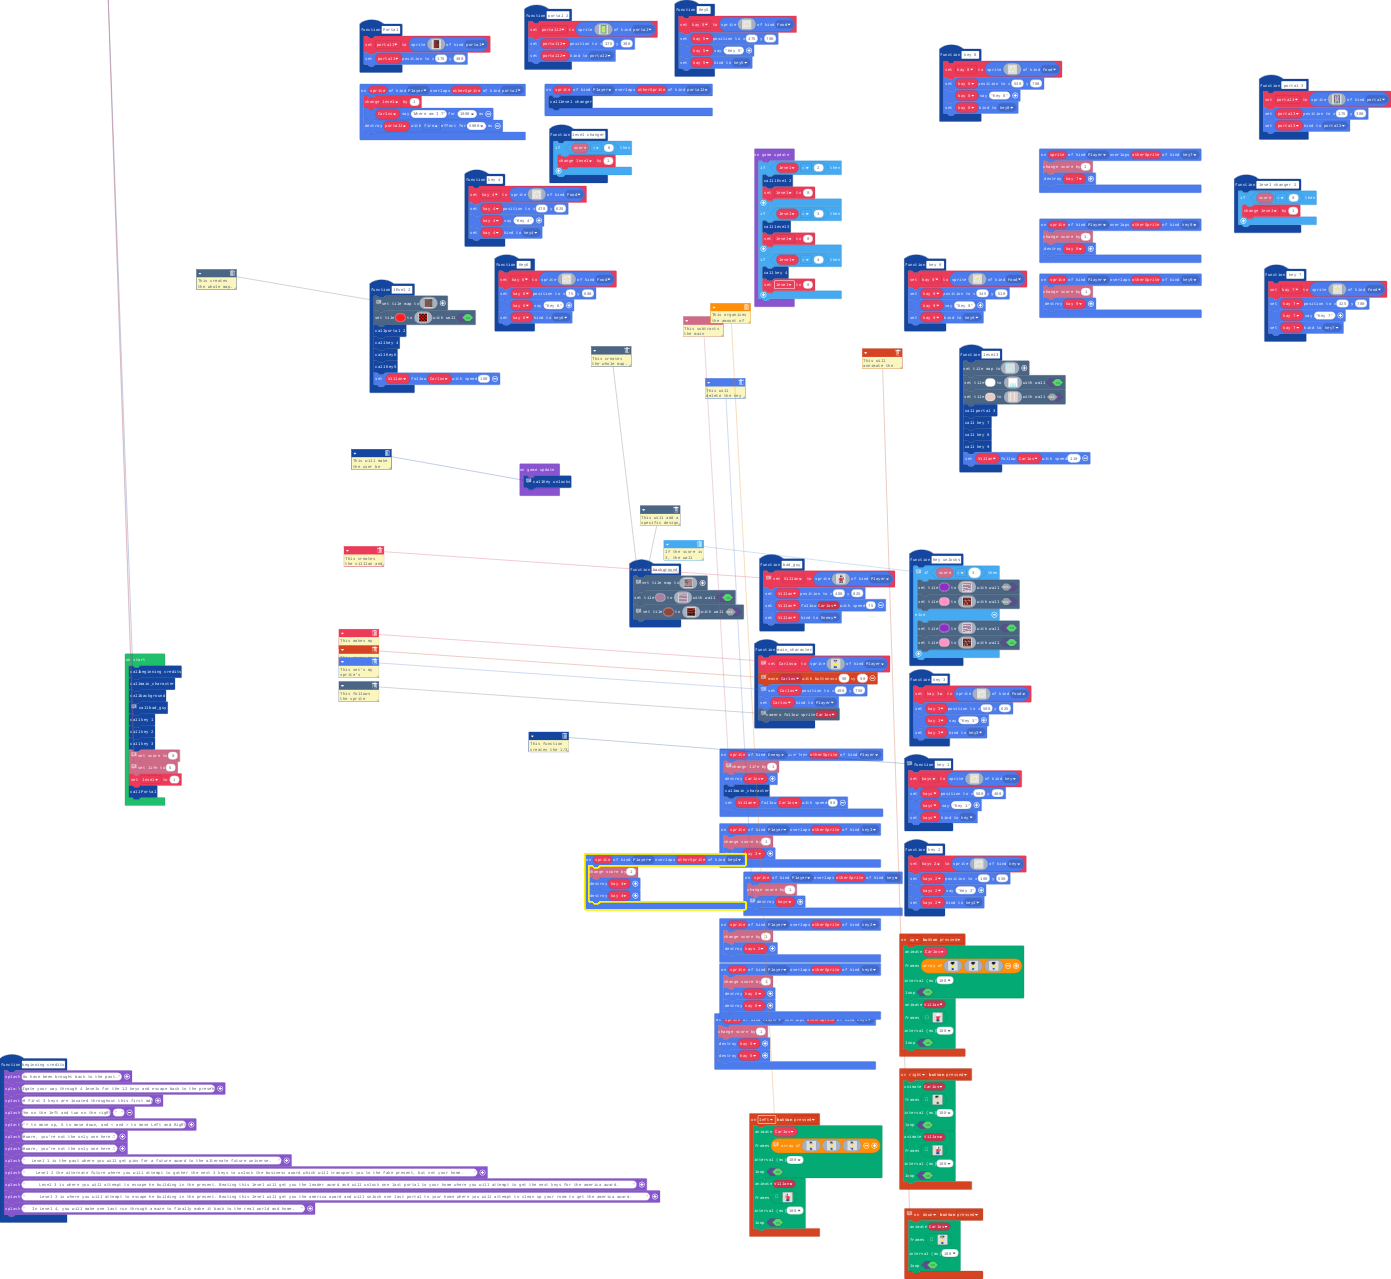
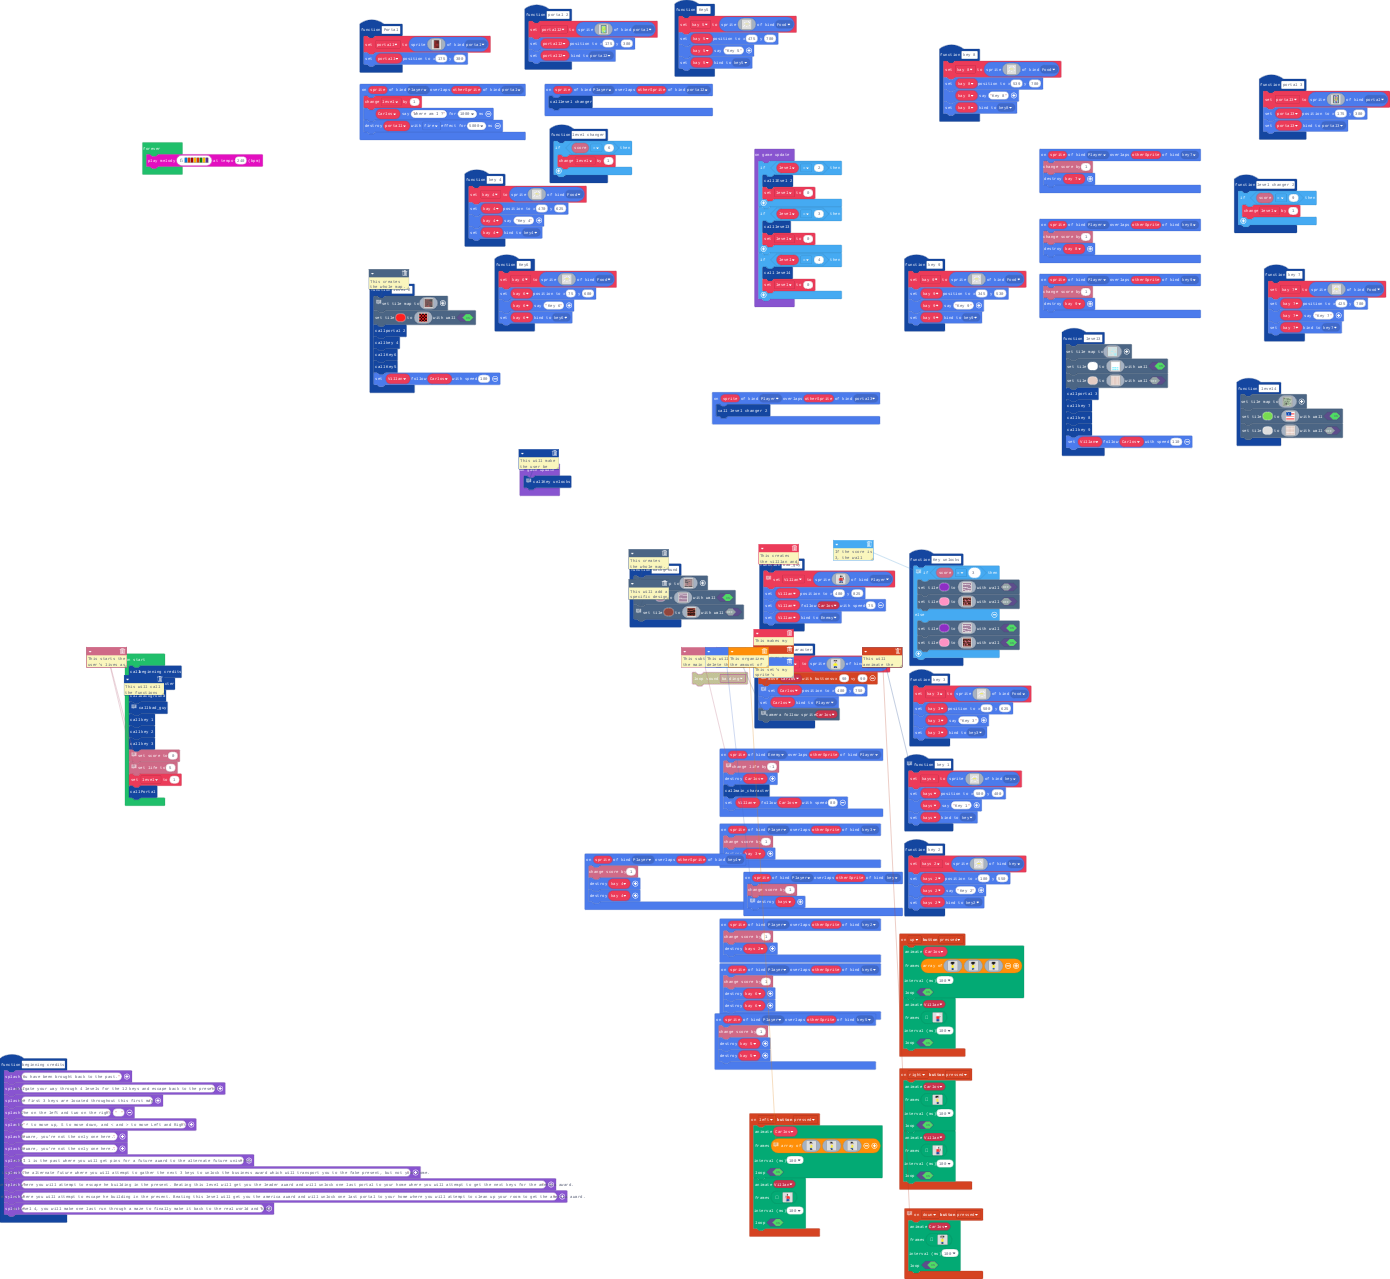
https://makecode.com/_JUPXMbA47VUR

diff --git a/main.ts b/main.ts
@@ -53,26 +53,8 @@ e e e e e e e e e e e e e e e e
 e e e e e e e e e e e e e f e e 
 `
 }
-function beginning_credits () {
-    game.splash("You have been brought back to the past.  ")
-    game.splash("Navigate your way through 4 levels for the 12 keys and escape back to the present! ")
-    game.splash("The first 3 keys are located throughout this first map.")
-    game.splash("One on the left and two on the right", "")
-    game.splash("Use ^ to move up, S to move down, and < and > to move Left and Right. ")
-    game.splash("Beware, you're not the only one here...")
-    game.splash("Beware, you're not the only one here...")
-    game.splash("Level 1 is the past where you will get pins for a future award to the alternate future universe.")
-    game.splash("Level 2 the alternate future where you will attempt to gather the next 3 keys to unlock the business award which will transport you to the fake present, but not your home.")
-    game.splash("Level 3 is where you will attempt to escape he building in the present. Beating this level will get you the leader award and will unlock one last portal to your home where you will attempt to get the next keys for the america award.")
-    game.splash("Level 3 is where you will attempt to escape he building in the present. Beating this level will get you the america award and will unlock one last portal to your home where you will attempt to clean up your room to get the america award.")
-    game.splash("In Level 4, you will make one last run through a maze to finally make it back to the real world and home.")
-}
-sprites.onOverlap(SpriteKind.Player, SpriteKind.key8, function (sprite, otherSprite) {
-    info.changeScoreBy(1)
-    kay_8.destroy()
-})
-sprites.onOverlap(SpriteKind.Player, SpriteKind.portal2, function (sprite, otherSprite) {
-    level_changer()
+sprites.onOverlap(SpriteKind.Player, SpriteKind.portal3, function (sprite, otherSprite) {
+    level_changer_2()
 })
 function key_8 () {
     kay_8 = sprites.create(img`
@@ -97,6 +79,24 @@ function key_8 () {
     kay_8.say("Key 8")
     kay_8.setKind(SpriteKind.key8)
 }
+function beginning_credits () {
+    game.splash("You have been brought back to the past.  ")
+    game.splash("Navigate your way through 4 levels for the 12 keys and escape back to the present! ")
+    game.splash("The first 3 keys are located throughout this first map.")
+    game.splash("One on the left and two on the right", "")
+    game.splash("Use ^ to move up, S to move down, and < and > to move Left and Right. ")
+    game.splash("Beware, you're not the only one here...")
+    game.splash("Beware, you're not the only one here...")
+    game.splash("Level 1 is the past where you will get pins for a future award to the alternate future universe.")
+    game.splash("Level 2 the alternate future where you will attempt to gather the next 3 keys to unlock the business award which will transport you to the fake present, but not your home.")
+    game.splash("Level 3 is where you will attempt to escape he building in the present. Beating this level will get you the leader award and will unlock one last portal to your home where you will attempt to get the next keys for the america award.")
+    game.splash("Level 3 is where you will attempt to escape he building in the present. Beating this level will get you the america award and will unlock one last portal to your home where you will attempt to clean up your room to get the america award.")
+    game.splash("In Level 4, you will make one last run through a maze to finally make it back to the real world and home.")
+}
+sprites.onOverlap(SpriteKind.Player, SpriteKind.key8, function (sprite, otherSprite) {
+    info.changeScoreBy(1)
+    kay_8.destroy()
+})
 function portal_3 () {
     portal3 = sprites.create(img`
 . . . . f f f f f a a a a f f f f . . . 
@@ -123,34 +123,99 @@ function portal_3 () {
     portal3.setPosition(175, 300)
     portal3.setKind(SpriteKind.portal3)
 }
-function level_changer_2 () {
-    if (info.score() == 9) {
-        level += 1
-    }
+function level4 () {
+    scene.setTileMap(img`
+f f f f f f f f f f f f f f f f f f f f f f f f f f f f f f f f f f f f f f f f f f f f f f f f f f 
+f f f f f f f f f f f f f f f f f f f f f f f f f f f f f f f f f f f f f f f f f f f f f f f f f f 
+f f f f f f f f 7 7 7 7 7 7 7 7 7 7 7 7 7 7 7 7 7 7 7 7 7 7 7 7 7 7 7 7 7 7 7 7 7 7 7 7 7 7 7 f f f 
+f f f f f f f f 7 . . . . . . . . . . . . . . . . . . . . . . . . . . . . . . . . . . . . . 7 7 f f 
+f f f f f f f f 7 . . . . . . . . . . . . . . . . . . . . . . . . . . . . . . . . . . . . . . 7 f f 
+f f f f f f f f 7 . . 7 7 7 7 7 7 7 7 7 7 7 7 7 7 7 7 7 7 7 7 7 7 7 7 . . . . . . . . . . . . 7 f f 
+f f f f f f f f 7 . . 7 f f f f f f f f f f f f f f f f f f f f f f 7 7 7 7 7 . . . . . . . . 7 f f 
+f f f f f f f f 7 . . 7 f f f f f f f f f f f f f f f f f f f f f f f f f f 7 . . . . . . . 7 7 f f 
+f f f f f f f f 7 . . 7 f f f f f f f f f f f f f f f f f f f f f f f f f f 7 7 . . . . . . 7 f f f 
+f f 7 7 7 7 7 7 7 . . 7 7 7 7 7 7 7 7 7 7 7 7 7 7 7 f f f f f f f f f f f f f 7 . . . . . 7 7 f f f 
+f f 7 . . . . . . . . . . . . . . . . . . . . . . 7 f f f f f 7 7 7 7 f f f f 7 7 . . . . 7 f f f f 
+f f 7 . . . . . . . . . . . . . . . . . . . . . . 7 f f f f f 7 . . 7 f f f f f 7 . . 7 7 7 f f f f 
+f f 7 7 7 7 7 7 7 . . 7 7 7 7 7 7 7 7 7 7 7 7 . . 7 f f f f f 7 . . 7 f f f f f 7 . . 7 7 f f f f f 
+f f f f f f f f 7 . . 7 f f f f f f f f f f 7 . . 7 f f f f f 7 . . 7 f f f f f 7 . . 7 f f f f f f 
+f f f f f f f f 7 . . 7 f f f f f f f f f f 7 . . 7 f f f f f 7 . . 7 f f f f f 7 . . 7 f f f f f f 
+f f f f f f 7 7 7 . . 7 7 7 f f f f f f f f 7 . . 7 f f f f f 7 . . 7 f f f f f 7 . . 7 f f f f f f 
+f f f f f f 7 . . . . . . 7 7 7 7 7 7 7 7 7 7 . . 7 7 7 7 7 7 7 . . 7 7 7 7 7 7 7 . . 7 7 7 7 7 7 f 
+f f f f f f 7 . . . . . . . . . . . . . . . . . . . . . . . . . . . . . . . . . . . . . . . . . 7 f 
+f f 7 7 7 7 7 . . . . . . . . . . . . . . . . . . . . . . . . . . . . . . . . . . . . . . . . 7 7 f 
+f f 7 . . . . . . . . . . 7 7 7 7 7 7 7 . . . 7 7 7 7 7 7 7 7 7 . . 7 7 7 7 7 7 7 . . 7 7 7 7 7 7 f 
+f f 7 . . . . . . . . . . 7 f f f f f 7 . . . 7 f f f f f f f 7 . . 7 f f f f f 7 . . 7 f f f f f f 
+f f 7 . . 7 7 7 7 . . . 7 7 f f f f f 7 . . . 7 f f f f f f f 7 . . 7 f f f f 7 7 . . 7 7 7 7 7 f f 
+f f 7 . . 7 f f 7 . . . 7 f f f f f f 7 . . . 7 f f f f f f f 7 . . 7 f f f f 7 . . . . . . . 7 f f 
+f f 7 . . 7 f f 7 . . . 7 f f f f f f 7 . . . 7 f f f f f f f 7 . . 7 f f f f 7 . . . . . . . 7 f f 
+f f 7 . . 7 f f 7 . . . 7 f f f f f f 7 . . . 7 f f f f f f f 7 . . 7 f f f 7 7 . . . . . . . 7 f f 
+f f 7 . . 7 f f 7 . . . 7 f f f f f f 7 . . . 7 f f f f f f f 7 . . 7 f f f 7 . . . . . . . . 7 f f 
+f f 7 . . 7 f f 7 . . . 7 f f f f f f 7 . . . 7 f f f f f f f 7 . . 7 f f f 7 . . . . . . . . 7 f f 
+f f 7 . . 7 f f 7 . . . 7 7 7 7 7 7 7 7 . . . 7 7 7 7 7 f f f 7 . . 7 f f 7 . . . . . . . . . 7 f f 
+f f 7 . . 7 f f 7 . . . . . . . . . . . . . . . . . . 7 f f f 7 . . 7 f f 7 . . . . . . . . . 7 f f 
+f f 7 . . 7 f f 7 . . . . . . . . . . . . . . . . . . 7 f f f 7 . . 7 f f 7 . . . . . . . . 7 7 f f 
+f f 7 . . 7 f f 7 . . . 7 7 7 7 7 7 7 7 7 7 7 7 7 . . 7 f f f 7 . . 7 f f 7 . . . . . . . . 7 f f f 
+f f 7 . . 7 f f 7 . . . 7 f f f f f f f f f f f 7 . . 7 f f f 7 . . 7 f f 7 . . . . . . . 7 7 f f f 
+f f 7 . . 7 f f 7 . . . 7 f f f f f f f f f f f 7 . . 7 f f f 7 . . 7 f f 7 7 . . . . . . 7 f f f f 
+f f 7 . . 7 f f 7 . . . 7 f f f f f f f f f f f 7 . . 7 f f f 7 . . 7 f f f 7 . . . . . 7 7 f f f f 
+f f 7 . . 7 f f 7 . . . 7 f f f f f f f f f f f 7 . . 7 f f f 7 . . 7 f f f 7 . . . . . 7 f f f f f 
+f f 7 . . 7 f f 7 . . . 7 f f f f f f f f f f f 7 . . 7 f f f 7 . . 7 f f f 7 7 . . . . 7 f f f f f 
+f f 7 . . 7 f f 7 . . . 7 f f f f f f f f f f f 7 . . 7 f f f 7 . . 7 f f f f 7 . . . . 7 f f f f f 
+f f 7 . . 7 f f 7 . . . 7 f f f f f f f f f f f 7 . . 7 f f f 7 . . 7 f f f 7 7 . . . . 7 f f f f f 
+f f 7 . . 7 f f 7 . . . 7 f f f f f f f f f f f 7 . . 7 f f f 7 . . 7 f f f 7 . . . . . 7 f f f f f 
+f f 7 . . 7 f f 7 . . . 7 f f f f f f f f f f f 7 . . 7 f f f 7 . . 7 f f f 7 . . . . . 7 7 f f f f 
+f f 7 . . 7 f f 7 . . . 7 f f f f f f f f f f f 7 . . 7 f f f 7 . . 7 f f 7 7 . . . . . 7 7 f f f f 
+f f 7 . . 7 f f 7 . . . 7 f f f f f f f f f f f 7 . . 7 f f f 7 . . 7 f f 7 . . . . . . . 7 7 f f f 
+f f 7 . . 7 f f 7 . . . 7 f f f f f f f f f f f 7 . . 7 f f f 7 . . 7 f f 7 . . . . . . . . 7 f f f 
+f f 7 . . 7 f f 7 . . . 7 f f f f f f f f f f f 7 . . 7 f f f 7 . . 7 f f 7 . . . . . . . . 7 f f f 
+f f 7 . . 7 f f 7 . . . 7 7 7 7 7 7 7 7 7 7 7 7 7 . . 7 f f f 7 . . 7 f f 7 . . . . . . . . 7 f f f 
+f f 7 . . 7 f f 7 . . . . . . . . . . . . . . . . . . 7 f f f 7 . . 7 f f 7 . . . . . . . . 7 f f f 
+f f 7 . . 7 f f 7 . . . . . . . . . . . . . . . . . . 7 7 7 7 7 . . 7 f f 7 7 . . . . . . . 7 f f f 
+f f 7 7 7 7 f f 7 7 7 7 7 7 7 7 7 7 7 7 7 7 7 7 7 . . . . . . . . . 7 f f f 7 7 7 7 . . . . 7 f f f 
+f f f f f f f f f f f f f f f f f f f f f f f f 7 . . . . . . . . . 7 f f f f f f 7 7 7 7 7 7 f f f 
+f f f f f f f f f f f f f f f f f f f f f f f f 7 7 7 7 7 7 7 7 7 7 7 f f f f f f f f f f f f f f f 
+`)
+    scene.setTile(7, img`
+8 8 8 8 8 8 8 8 8 8 1 1 1 1 1 1 
+8 8 1 8 8 8 8 1 8 8 1 1 1 1 1 1 
+8 8 8 8 1 8 8 8 8 8 2 2 2 2 2 2 
+8 8 8 8 8 8 8 1 8 8 1 1 1 1 1 1 
+8 1 8 8 1 8 8 8 8 8 1 1 1 1 1 1 
+8 8 8 8 8 8 8 1 8 8 2 2 2 2 2 2 
+8 8 8 8 8 8 8 8 8 8 1 1 1 1 1 1 
+1 1 1 1 1 1 1 1 1 1 1 1 1 1 1 1 
+1 1 1 1 1 1 1 1 1 1 1 1 1 1 1 1 
+2 2 2 2 2 2 2 2 2 2 2 2 2 2 2 2 
+1 1 1 1 1 1 1 1 1 1 1 1 1 1 1 1 
+1 1 1 1 1 1 1 1 1 1 1 1 1 1 1 1 
+2 2 2 2 2 2 2 2 2 2 2 2 2 2 2 2 
+1 1 1 1 1 1 1 1 1 1 1 1 1 1 1 1 
+1 1 1 1 1 1 1 1 1 1 1 1 1 1 1 1 
+2 2 2 2 2 2 2 2 2 2 2 2 2 2 2 2 
+`, true)
+    scene.setTile(0, img`
+d d d 1 d d d d d d d 1 d d d d 
+d d d 1 d d d d d d d 1 d d d d 
+d d d 1 d d d d d d d 1 d d d d 
+d d d 1 d d d d d d d 1 d d d d 
+1 1 1 1 1 1 1 1 1 1 1 1 1 1 1 1 
+d d d 1 d d d d d d d 1 d d d d 
+d d d 1 d d d d d d d 1 d d d d 
+d d d 1 d d d d d d d 1 d d d d 
+d d d 1 d d d d d d d 1 d d d d 
+d d d 1 d d d d d d d 1 d d d d 
+d d d 1 d d d d d d d 1 d d d d 
+1 1 1 1 1 1 1 1 1 1 1 1 1 1 1 1 
+d d d 1 d d d d d d d 1 d d d d 
+d d d 1 d d d d d d d 1 d d d d 
+d d d 1 d d d d d d d 1 d d d d 
+d d d 1 d d d d d d d 1 d d d d 
+`, false)
 }
-function key_9 () {
-    kay_9 = sprites.create(img`
-. . . . . . . . . . . . . . . . 
-. . . . . . . . . . . . . . . . 
-. . . . . . 1 . . . . 1 1 . . . 
-. . . . . . 1 1 . . 1 1 . . . . 
-. . . 1 1 . . . . . . . . 1 . . 
-. . . . 1 1 . . . . . . 1 1 . . 
-. . . . . . 5 . . . . . . . . . 
-. 1 1 . . 5 . 5 5 5 5 . . . . . 
-. . . . . . 5 . . . 5 . . . . . 
-. . . . . . . . . . . . 1 . . . 
-. . . 1 . . . . . . . . . 1 . . 
-. . 1 1 . . . . . . . . . . 1 . 
-. 1 1 . . . . 1 1 . . . . . . . 
-. . . . . . . . . 1 1 . . . . . 
-. . . . . . . . . . . . . . . . 
-. . . . . . . . . . . . . . . . 
-`, SpriteKind.Food)
-    kay_9.setPosition(345, 510)
-    kay_9.say("Key 9")
-    kay_9.setKind(SpriteKind.key9)
-}
+sprites.onOverlap(SpriteKind.Player, SpriteKind.portal2, function (sprite, otherSprite) {
+    level_changer()
+})
 sprites.onOverlap(SpriteKind.Player, SpriteKind.key3, function (sprite, otherSprite) {
     info.changeScoreBy(1)
     kay_3.destroy()
@@ -445,6 +510,29 @@ function Key6 () {
     kay_6.setPosition(75, 600)
     kay_6.say("Key 6")
     kay_6.setKind(SpriteKind.key6)
+}
+function key_9 () {
+    kay_9 = sprites.create(img`
+. . . . . . . . . . . . . . . . 
+. . . . . . . . . . . . . . . . 
+. . . . . . 1 . . . . 1 1 . . . 
+. . . . . . 1 1 . . 1 1 . . . . 
+. . . 1 1 . . . . . . . . 1 . . 
+. . . . 1 1 . . . . . . 1 1 . . 
+. . . . . . 5 . . . . . . . . . 
+. 1 1 . . 5 . 5 5 5 5 . . . . . 
+. . . . . . 5 . . . 5 . . . . . 
+. . . . . . . . . . . . 1 . . . 
+. . . 1 . . . . . . . . . 1 . . 
+. . 1 1 . . . . . . . . . . 1 . 
+. 1 1 . . . . 1 1 . . . . . . . 
+. . . . . . . . . 1 1 . . . . . 
+. . . . . . . . . . . . . . . . 
+. . . . . . . . . . . . . . . . 
+`, SpriteKind.Food)
+    kay_9.setPosition(345, 530)
+    kay_9.say("Key 9")
+    kay_9.setKind(SpriteKind.key9)
 }
 sprites.onOverlap(SpriteKind.Player, SpriteKind.key2, function (sprite, otherSprite) {
     info.changeScoreBy(1)
@@ -796,6 +884,11 @@ function key_2 () {
     kays_2.setPosition(100, 550)
     kays_2.say("Key 2")
     kays_2.setKind(SpriteKind.key2)
+}
+function level_changer_2 () {
+    if (info.score() == 9) {
+        level += 1
+    }
 }
 function Key_unlocks () {
     // If the score is 3, the wall that was locked
@@ -1257,12 +1350,12 @@ let kays: Sprite = null
 let portall: Sprite = null
 let kay_5: Sprite = null
 let kays_2: Sprite = null
+let kay_9: Sprite = null
 let kay_6: Sprite = null
 let portall2: Sprite = null
 let Carlos: Sprite = null
 let Villan: Sprite = null
 let kay_3: Sprite = null
-let kay_9: Sprite = null
 let portal3: Sprite = null
 let kay_8: Sprite = null
 beginning_credits()
@@ -1289,7 +1382,7 @@ game.onUpdate(function () {
         level = 0
     }
     if (level == 4) {
-        key_4()
+        level4()
         level = 0
     }
 })
@@ -1297,4 +1390,7 @@ game.onUpdate(function () {
     // This will make the user be able to unlock the walls
     // by collecting the keys.
     Key_unlocks()
+})
+forever(function () {
+    music.playMelody("E B C5 A B G A D ", 240)
 })
